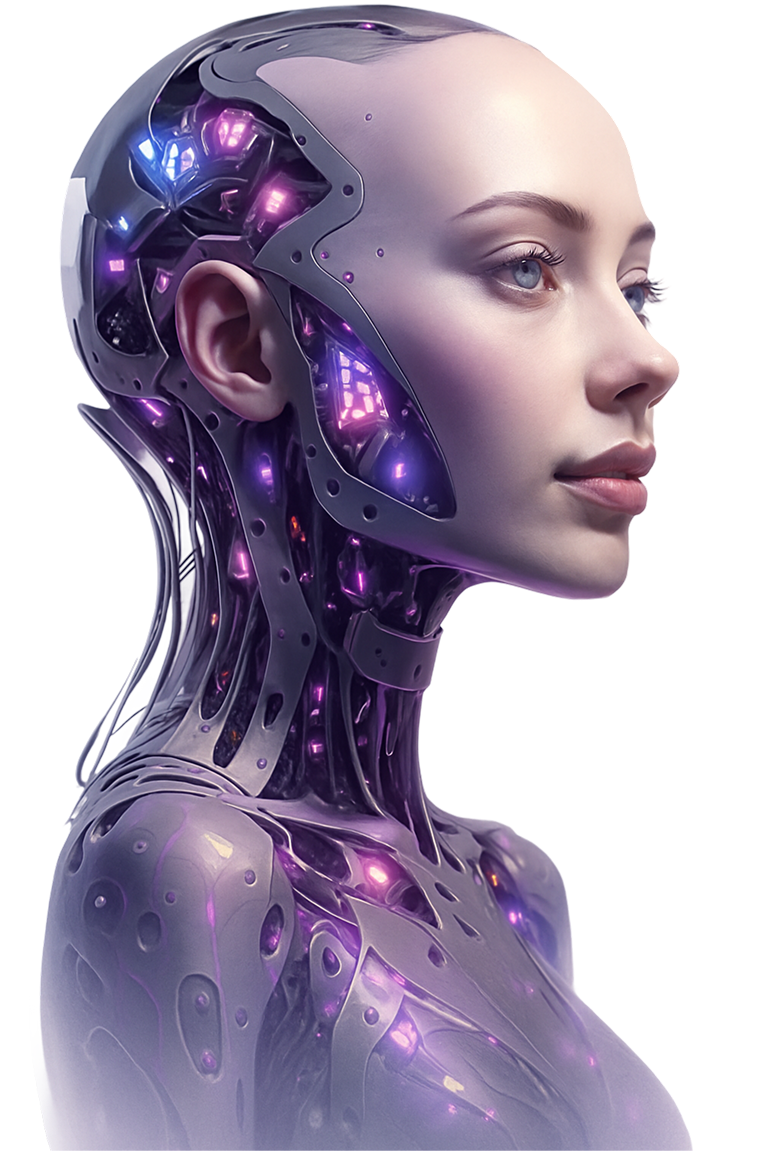
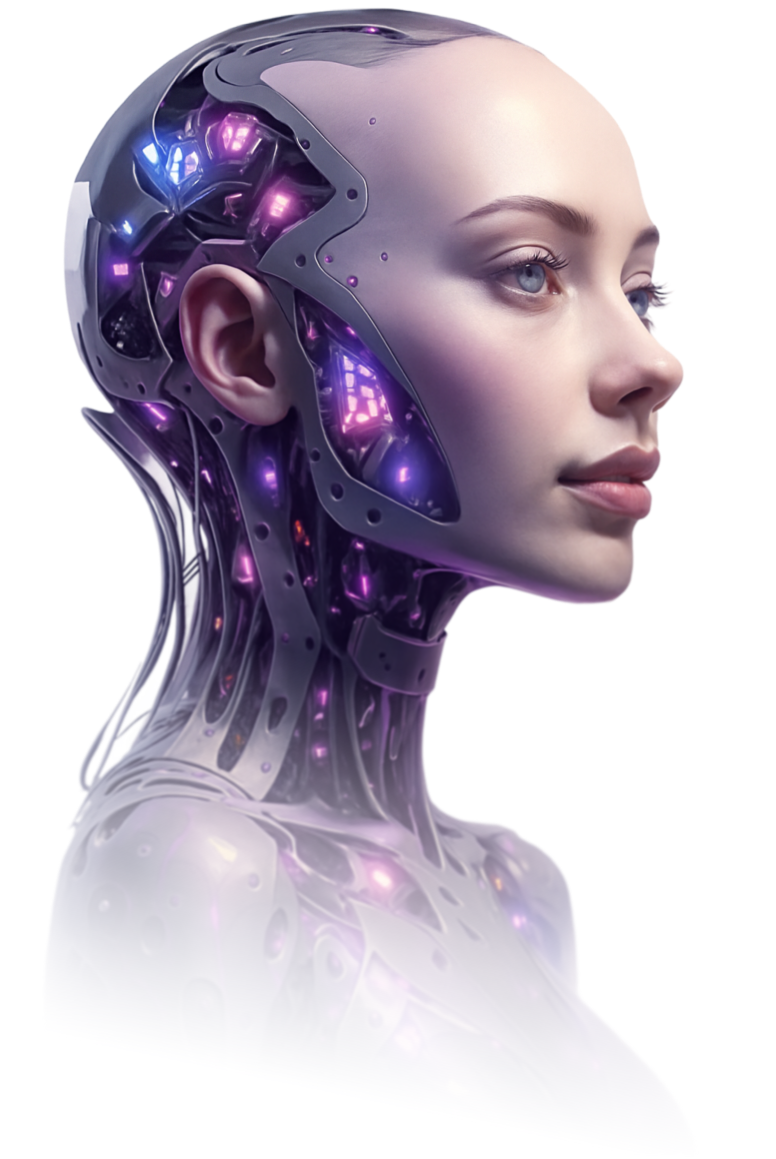
Figma Design Done

diff --git a/src/Components/ElevenSection.tsx b/src/Components/ElevenSection.tsx
@@ -5,6 +5,7 @@ import ElevenVector4 from "../assets/ElevenVector4.png"
 import ElevenVector5 from "../assets/ElevenVector5.png"
 import { motion } from "framer-motion"
 import { useState } from "react"
+import { wrap } from "framer-motion" // ✅ helps loop index
 
 const ElevenSection = () => {
   const data = [
@@ -42,8 +43,11 @@ const ElevenSection = () => {
 
   const [index, setIndex] = useState(0)
 
-  const nextSlide = () => setIndex((prev) => Math.min(prev + 1, data.length - 1))
-  const prevSlide = () => setIndex((prev) => Math.max(prev - 1, 0))
+  // ✅ Looping index with wrap
+  const wrappedIndex = wrap(0, data.length, index)
+
+  const nextSlide = () => setIndex((prev) => prev + 1)
+  const prevSlide = () => setIndex((prev) => prev - 1)
 
   return (
     <div className="bg-[#4E5CB9] py-20 overflow-hidden">
@@ -59,7 +63,7 @@ const ElevenSection = () => {
         <div className="">
           <motion.div
             className="flex gap-8"
-            animate={{ x: `-${index * 53}%` }} // 50% width + gap
+            animate={{ x: `-${wrappedIndex * 53}%` }}
             transition={{ duration: 0.7, ease: "easeInOut" }}
           >
             {data.map((item) => (
@@ -77,7 +81,7 @@ const ElevenSection = () => {
                 </div>
 
                 {/* Content */}
-                <h2 className="text-[#4F4F5B] text-3xl  mb-4 mt-16">
+                <h2 className="text-[#4F4F5B] text-3xl mb-4 mt-16">
                   {item.heading}
                 </h2>
                 <p className="text-[#67676C] text-base">{item.para}</p>
@@ -91,8 +95,7 @@ const ElevenSection = () => {
           {/* Previous */}
           <button
             onClick={prevSlide}
-            disabled={index === 0}
-            className="w-12 h-12 rounded-full border-2 border-white flex items-center justify-center text-white hover:bg-white/20 transition-colors text-2xl disabled:opacity-40 bg-[#4E5CB9]"
+            className="w-12 h-12 rounded-full border-2 border-white flex items-center justify-center text-white hover:bg-white/20 transition-colors text-2xl bg-[#4E5CB9]"
           >
             ←
           </button>
@@ -104,7 +107,9 @@ const ElevenSection = () => {
                 key={i}
                 onClick={() => setIndex(i)}
                 className={`w-4 h-4 rounded-full transition-colors ${
-                  i === index ? "bg-white" : "bg-white/40 hover:bg-white/60"
+                  i === wrappedIndex
+                    ? "bg-white"
+                    : "bg-white/40 hover:bg-white/60"
                 }`}
               />
             ))}
@@ -113,8 +118,7 @@ const ElevenSection = () => {
           {/* Next */}
           <button
             onClick={nextSlide}
-            disabled={index === data.length - 1}
-            className="w-12 h-12 rounded-full border-2 border-white flex items-center justify-center text-white hover:bg-white/20 transition-colors text-2xl disabled:opacity-40 bg-[#4E5CB9]"
+            className="w-12 h-12 rounded-full border-2 border-white flex items-center justify-center text-white hover:bg-white/20 transition-colors text-2xl bg-[#4E5CB9]"
           >
             →
           </button>

diff --git a/src/Components/ThirteenSection.tsx b/src/Components/ThirteenSection.tsx
@@ -1,0 +1,79 @@
+import { useState, type SetStateAction } from "react";
+import { Plus } from "lucide-react"; 
+import Lastimageof from "../assets/Lastimageof.png";
+
+const ThirteenSection = () => {
+  const [openIndex, setOpenIndex] = useState<number | null>(null);
+
+  const faqs = [
+    {
+      question: "What Is An AI Agent For My Beauty Clinic?",
+      answer:
+        "An AI Agent is a virtual assistant that automates bookings, reminders, and customer support for your beauty clinic.",
+    },
+    {
+      question: "How Can AI Agents Help My Staff?",
+      answer:
+        "AI agents reduce repetitive tasks like answering FAQs and scheduling, allowing staff to focus on clients.",
+    },
+    {
+      question: "Do I Need Technical Knowledge To Use It?",
+      answer:
+        "No, AI agents are easy to set up and user-friendly. You can manage them without coding skills.",
+    },
+    {
+      question: "Can AI Agents Increase My Revenue?",
+      answer:
+        "Yes! They improve customer satisfaction, reduce no-shows, and bring repeat clients through personalized follow-ups.",
+    },
+    {
+      question: "Is My Data Safe With AI Agents?",
+      answer:
+        "Absolutely. AI agents use secure, encrypted systems to keep your client data safe and private.",
+    },
+  ];
+
+  const toggleFAQ = (index: SetStateAction<number | null>) => {
+    setOpenIndex(openIndex === index ? null : index);
+  };
+
+  return (
+    <div className="px-24 bg-[#F6F6F6] py-20">
+      {/*-------------------- Heading----------------------------------- */}
+      <h1 className="bg-gradient-to-l from-[#10174F] to-[#777796] bg-clip-text text-transparent text-center text-4xl md:text-6xl  mb-10">
+        Still Have Doubts?
+        <span className="block">Frequently Asked Questions</span>
+      </h1>
+      {/*-------------------- FAQS Section------------------------------- */}
+      <div className="flex gap-6">
+        {/* ------------------- Left Section ------------------------------*/}
+        <img src={Lastimageof} alt="Robot Image" width={520} />
+
+        {/*------------------- Right Section FAQS --------------------------*/}
+        <div className="space-y-4 max-w-3xl w-full">
+          {faqs.map((faq, index) => (
+            <div
+              key={index}
+              className="bg-[#F6F6F6] py-8 px-8 rounded-2xl border-4 border-[#FEFEFE] cursor-pointer"
+              onClick={() => toggleFAQ(index)}
+            >
+              <div className="flex justify-between items-center">
+                <h2 className="text-[#67676C] text-2xl ">{faq.question}</h2>
+                <Plus
+                  className={`w-10 h-10 text-[#6C6CEC] font-black transition-transform duration-300 ${
+                    openIndex === index ? "rotate-45" : ""
+                  }`}
+                />
+              </div>
+              {openIndex === index && (
+                <p className="mt-3 text-gray-500">{faq.answer}</p>
+              )}
+            </div>
+          ))}
+        </div>
+      </div>
+    </div>
+  );
+};
+
+export default ThirteenSection;

diff --git a/src/Components/NineSection.tsx b/src/Components/NineSection.tsx
@@ -19,9 +19,13 @@ const data = [
 export default function ConnectSection() {
   const [index, setIndex] = useState(0);
 
-  const nextSlide = () =>
-    setIndex((prev) => Math.min(prev + 1, data.length - 1));
-  const prevSlide = () => setIndex((prev) => Math.max(prev - 1, 0));
+  const nextSlide = () => {
+    setIndex((prev) => (prev + 1) % data.length); // Loop back to 0 after last item
+  };
+
+  const prevSlide = () => {
+    setIndex((prev) => (prev - 1 + data.length) % data.length); // Loop to last item when going before first
+  };
 
   return (
     <div className="bg-[#5859B0] pl-24 py-28 flex items-center">
@@ -37,8 +41,9 @@ export default function ConnectSection() {
           {/* Cards Row */}
           <motion.div
             className="flex gap-6"
-            animate={{ x: `-${index * 53}%` }}
-            // 50% card width + ~3% gap = ~53%
+            animate={{ 
+              x: `-${index * 53}%` // Simple calculation based on current index
+            }}
             transition={{ duration: 0.7, ease: "easeInOut" }}
           >
             {data.map((item) => (
@@ -74,8 +79,7 @@ export default function ConnectSection() {
           {/* Previous Button */}
           <button
             onClick={prevSlide}
-            disabled={index === 0}
-            className="w-12 h-12 rounded-full border-2 border-white flex items-center justify-center text-white hover:bg-white/20 transition-colors text-2xl disabled:opacity-40 bg-[#5859B0]"
+            className="w-12 h-12 rounded-full border-2 border-white flex items-center justify-center text-white hover:bg-white/20 transition-colors text-2xl bg-[#5859B0]"
           >
             ←
           </button>
@@ -96,8 +100,7 @@ export default function ConnectSection() {
           {/* Next Button */}
           <button
             onClick={nextSlide}
-            disabled={index === data.length - 1}
-            className="w-12 h-12 rounded-full border-2 border-white flex items-center justify-center text-white hover:bg-white/20 transition-colors text-2xl disabled:opacity-40 bg-[#5859B0]"
+            className="w-12 h-12 rounded-full border-2 border-white flex items-center justify-center text-white hover:bg-white/20 transition-colors text-2xl bg-[#5859B0]"
           >
             →
           </button>

diff --git a/src/Components/LandingPage.tsx b/src/Components/LandingPage.tsx
@@ -52,41 +52,30 @@ const LandingPage = () => {
 
         <div className="relative flex items-center justify-center ">
           {/* Assistant (AI face) with bottom blur */}
-          <div className="relative">
+          <div className="relative -top-8 right-4">
             {/* Assistant image */}
-            <img src={Assistant} alt="" className="w-[360px] md:w-[460px]" />
-
-            {/* Bottom overlay for blur + gradient */}
-            <div
-              className="absolute bottom-0 left-0 right-0 h-2/5"
-              style={{
-                background:
-                  "linear-gradient(to top, rgba(231,233,242,1), rgba(254,254,254,0.7), rgba(231,233,242,0))",
-                backdropFilter: "blur(0px)",
-                WebkitBackdropFilter: "blur(0px)",
-              }}
-            />
-          </div>
+            <img src={Assistant} alt="" className="w-[360px] md:w-[550px] " />
 
           {/* Left arrow */}
           <img
             src={arrow1}
             alt="arrow1"
-            className="absolute left-[-130px] top-14 h-24"
+            className="absolute left-[-150px] top-25 h-20"
           />
 
           {/* Right arrow */}
           <img
             src={arrow2}
             alt="arrow2"
-            className="absolute right-[-80px] bottom-20 h-40"
+            className="absolute right-[-10px] bottom-30 h-40"
           />
         </div>
 
         {/* ---------------------- RIGHT SIDE (service card)----------------------- */}
         
-        <img src={landingLast} width={300} className="pt-20" alt="" />
+        <img src={landingLast} width={310} height={400} className="rounded-4xl" alt="" />
       </div>
+    </div>
     </div>
   );
 };

diff --git a/src/Components/Third.tsx b/src/Components/Third.tsx
@@ -4,11 +4,11 @@ import AiAssistantphone from "../assets/AiAssistantphone.png";
 const Third = () => {
   return (
 <>
-<div className="grid grid-cols-2  gap-16 pt-24 bg-[#D9D9D9]/40">
-        <div className="bg-white flex flex-col pl-24 rounded-r-4xl justify-center">
-          <h1 className="bg-clip-text text-transparent bg-gradient-to-r from-[#10174F]  to-[#777796] text-6xl">
+<div className="grid grid-cols-2   pt-24  bg-[#D9D9D9]/40">
+        <div className="bg-white flex flex-col pl-20 rounded-r-4xl justify-center pr-16">
+          <h1 className="bg-clip-text text-transparent bg-gradient-to-r from-[#10174F]  to-[#777796] text-5xl">
             Automate Your Clinic
-            <span className="block bg-clip-text text-transparent bg-gradient-to-l from-[#10174F] to-[#777796]">
+            <span className="block bg-clip-text text-transparent bg-gradient-to-r from-[#10174F] to-[#777796]">
               Simply And Efficiently
             </span>
           </h1>
@@ -22,8 +22,8 @@ const Third = () => {
             enhances patient satisfaction and drives higher conversion rates.
           </p>
         </div>
-        <div>
-          <img src={AiAssistantphone} alt="AiAssistantphone" />
+        <div className="pl-28">
+          <img src={AiAssistantphone} alt="AiAssistantphone" width={620}/>
         </div>
       </div>  
       </>  )

diff --git a/src/App.tsx b/src/App.tsx
@@ -10,6 +10,7 @@ import NinthSection from './Components/NineSection'
 import TenthSection from './Components/TenthSection'
 import ElevenSection from './Components/ElevenSection'
 import TwelveSection from './Components/TwelveSection'
+import ThirteenSection from './Components/ThirteenSection'
 const App = () => {
   return (
     <div className=''>
@@ -25,6 +26,7 @@ const App = () => {
       <TenthSection/>
       <ElevenSection/>
       <TwelveSection/>
+      <ThirteenSection/>
     </div>
   )
 }

diff --git a/src/Components/FourthSection.tsx b/src/Components/FourthSection.tsx
@@ -18,7 +18,7 @@ const items2 = [
 
 const FourthSection = () => {
   return (
-    <div className="px-22 pt-20 bg-[#D9D9D9]/20">
+    <div className="px-22 pt-20 bg-[#D9D9D9]/40">
       <h1 className="bg-clip-text text-transparent bg-gradient-to-r from-[#10174F]  to-[#777796] text-6xl text-center">
         Stop Losing Patients And Money{" "}
         <span className="block bg-clip-text text-transparent bg-gradient-to-l from-[#10174F] to-[#777796]">
